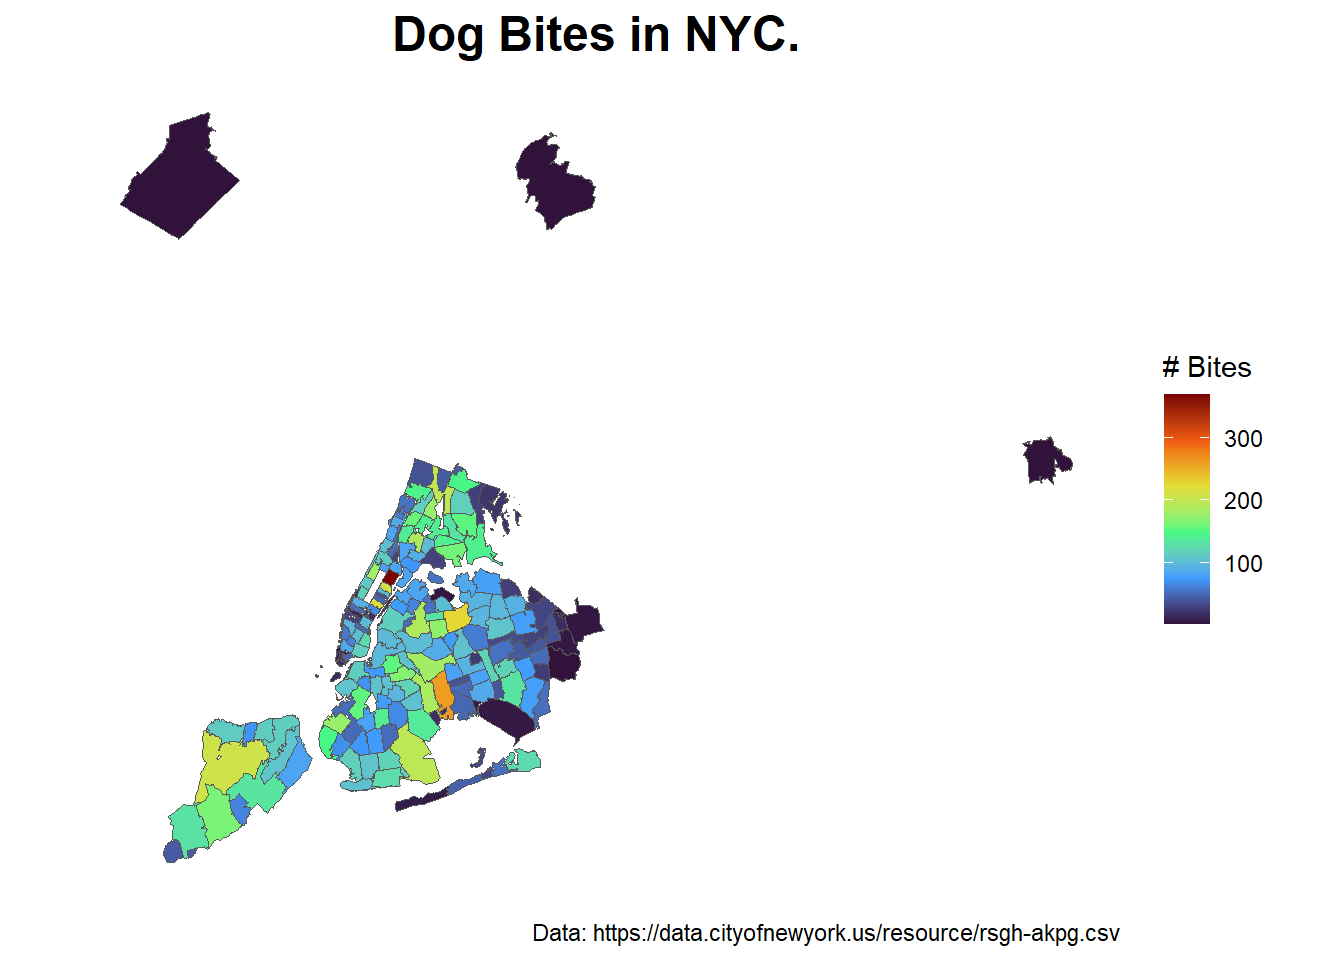
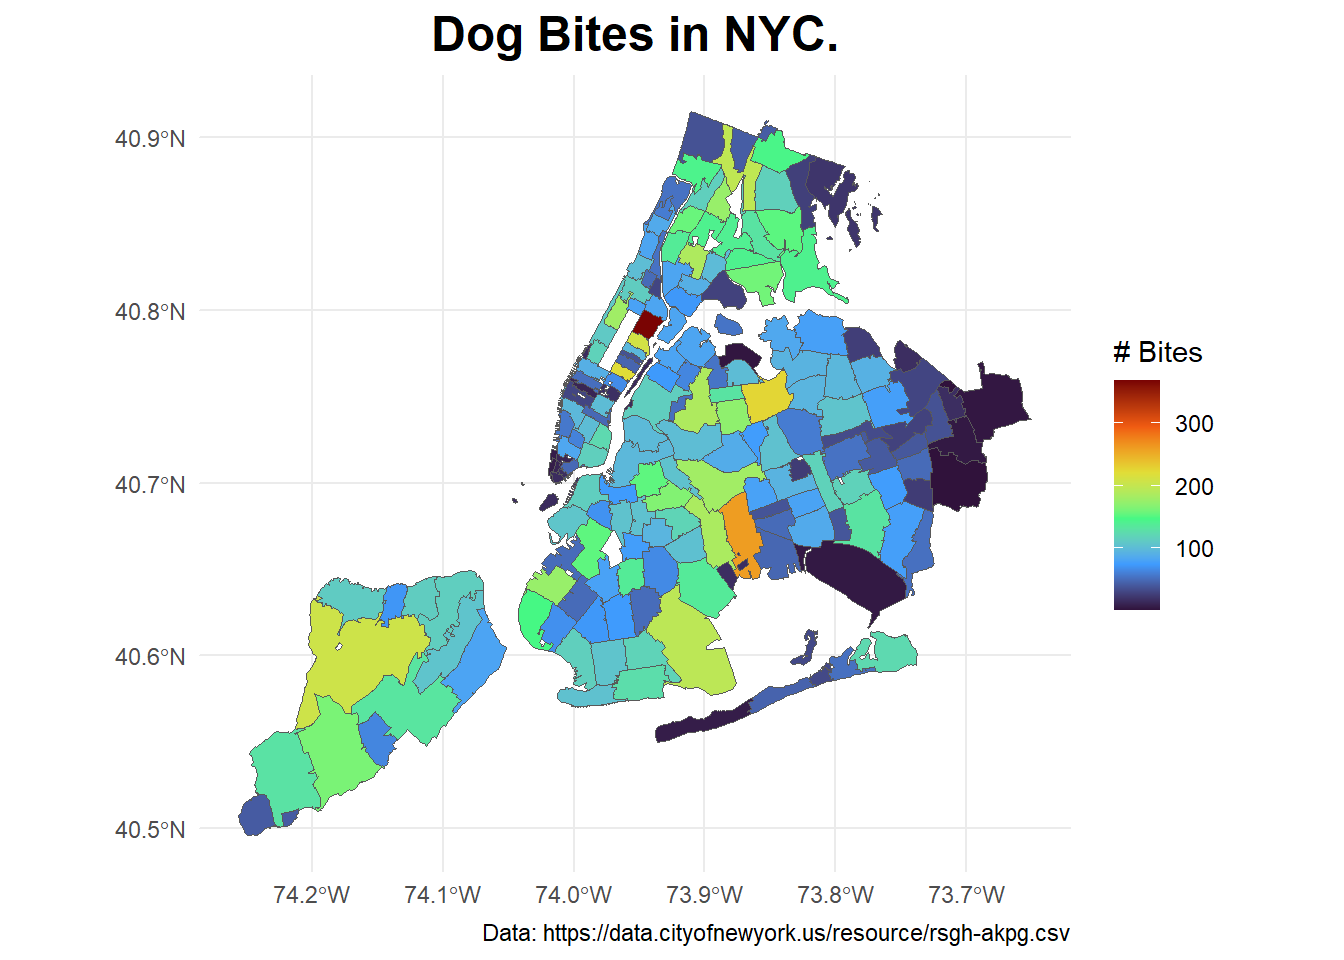
updated

diff --git a/content/posts/2022-01-09-dog-bites-nyc/dog_bite_nyc.html b/content/posts/2022-01-09-dog-bites-nyc/dog_bite_nyc.html
@@ -157,12 +157,12 @@ dog_bite %&gt;% count(age_bin)</code></pre>
   filter(age != &quot;&quot;,
          n &gt; 50) %&gt;%
   gt() </code></pre>
-<div id="sxyuvcnyjf" style="overflow-x:auto;overflow-y:auto;width:auto;height:auto;">
+<div id="zbclmvoiqu" style="overflow-x:auto;overflow-y:auto;width:auto;height:auto;">
 <style>html {
   font-family: -apple-system, BlinkMacSystemFont, 'Segoe UI', Roboto, Oxygen, Ubuntu, Cantarell, 'Helvetica Neue', 'Fira Sans', 'Droid Sans', Arial, sans-serif;
 }
 
-#sxyuvcnyjf .gt_table {
+#zbclmvoiqu .gt_table {
   display: table;
   border-collapse: collapse;
   margin-left: auto;
@@ -187,7 +187,7 @@ dog_bite %&gt;% count(age_bin)</code></pre>
   border-left-color: #D3D3D3;
 }
 
-#sxyuvcnyjf .gt_heading {
+#zbclmvoiqu .gt_heading {
   background-color: #FFFFFF;
   text-align: center;
   border-bottom-color: #FFFFFF;
@@ -199,7 +199,7 @@ dog_bite %&gt;% count(age_bin)</code></pre>
   border-right-color: #D3D3D3;
 }
 
-#sxyuvcnyjf .gt_title {
+#zbclmvoiqu .gt_title {
   color: #333333;
   font-size: 125%;
   font-weight: initial;
@@ -209,7 +209,7 @@ dog_bite %&gt;% count(age_bin)</code></pre>
   border-bottom-width: 0;
 }
 
-#sxyuvcnyjf .gt_subtitle {
+#zbclmvoiqu .gt_subtitle {
   color: #333333;
   font-size: 85%;
   font-weight: initial;
@@ -219,13 +219,13 @@ dog_bite %&gt;% count(age_bin)</code></pre>
   border-top-width: 0;
 }
 
-#sxyuvcnyjf .gt_bottom_border {
+#zbclmvoiqu .gt_bottom_border {
   border-bottom-style: solid;
   border-bottom-width: 2px;
   border-bottom-color: #D3D3D3;
 }
 
-#sxyuvcnyjf .gt_col_headings {
+#zbclmvoiqu .gt_col_headings {
   border-top-style: solid;
   border-top-width: 2px;
   border-top-color: #D3D3D3;
@@ -240,7 +240,7 @@ dog_bite %&gt;% count(age_bin)</code></pre>
   border-right-color: #D3D3D3;
 }
 
-#sxyuvcnyjf .gt_col_heading {
+#zbclmvoiqu .gt_col_heading {
   color: #333333;
   background-color: #FFFFFF;
   font-size: 100%;
@@ -260,7 +260,7 @@ dog_bite %&gt;% count(age_bin)</code></pre>
   overflow-x: hidden;
 }
 
-#sxyuvcnyjf .gt_column_spanner_outer {
+#zbclmvoiqu .gt_column_spanner_outer {
   color: #333333;
   background-color: #FFFFFF;
   font-size: 100%;
@@ -272,15 +272,15 @@ dog_bite %&gt;% count(age_bin)</code></pre>
   padding-right: 4px;
 }
 
-#sxyuvcnyjf .gt_column_spanner_outer:first-child {
+#zbclmvoiqu .gt_column_spanner_outer:first-child {
   padding-left: 0;
 }
 
-#sxyuvcnyjf .gt_column_spanner_outer:last-child {
+#zbclmvoiqu .gt_column_spanner_outer:last-child {
   padding-right: 0;
 }
 
-#sxyuvcnyjf .gt_column_spanner {
+#zbclmvoiqu .gt_column_spanner {
   border-bottom-style: solid;
   border-bottom-width: 2px;
   border-bottom-color: #D3D3D3;
@@ -292,7 +292,7 @@ dog_bite %&gt;% count(age_bin)</code></pre>
   width: 100%;
 }
 
-#sxyuvcnyjf .gt_group_heading {
+#zbclmvoiqu .gt_group_heading {
   padding: 8px;
   color: #333333;
   background-color: #FFFFFF;
@@ -314,7 +314,7 @@ dog_bite %&gt;% count(age_bin)</code></pre>
   vertical-align: middle;
 }
 
-#sxyuvcnyjf .gt_empty_group_heading {
+#zbclmvoiqu .gt_empty_group_heading {
   padding: 0.5px;
   color: #333333;
   background-color: #FFFFFF;
@@ -329,15 +329,15 @@ dog_bite %&gt;% count(age_bin)</code></pre>
   vertical-align: middle;
 }
 
-#sxyuvcnyjf .gt_from_md > :first-child {
+#zbclmvoiqu .gt_from_md > :first-child {
   margin-top: 0;
 }
 
-#sxyuvcnyjf .gt_from_md > :last-child {
+#zbclmvoiqu .gt_from_md > :last-child {
   margin-bottom: 0;
 }
 
-#sxyuvcnyjf .gt_row {
+#zbclmvoiqu .gt_row {
   padding-top: 8px;
   padding-bottom: 8px;
   padding-left: 5px;
@@ -356,7 +356,7 @@ dog_bite %&gt;% count(age_bin)</code></pre>
   overflow-x: hidden;
 }
 
-#sxyuvcnyjf .gt_stub {
+#zbclmvoiqu .gt_stub {
   color: #333333;
   background-color: #FFFFFF;
   font-size: 100%;
@@ -368,7 +368,7 @@ dog_bite %&gt;% count(age_bin)</code></pre>
   padding-left: 12px;
 }
 
-#sxyuvcnyjf .gt_summary_row {
+#zbclmvoiqu .gt_summary_row {
   color: #333333;
   background-color: #FFFFFF;
   text-transform: inherit;
@@ -378,7 +378,7 @@ dog_bite %&gt;% count(age_bin)</code></pre>
   padding-right: 5px;
 }
 
-#sxyuvcnyjf .gt_first_summary_row {
+#zbclmvoiqu .gt_first_summary_row {
   padding-top: 8px;
   padding-bottom: 8px;
   padding-left: 5px;
@@ -388,7 +388,7 @@ dog_bite %&gt;% count(age_bin)</code></pre>
   border-top-color: #D3D3D3;
 }
 
-#sxyuvcnyjf .gt_grand_summary_row {
+#zbclmvoiqu .gt_grand_summary_row {
   color: #333333;
   background-color: #FFFFFF;
   text-transform: inherit;
@@ -398,7 +398,7 @@ dog_bite %&gt;% count(age_bin)</code></pre>
   padding-right: 5px;
 }
 
-#sxyuvcnyjf .gt_first_grand_summary_row {
+#zbclmvoiqu .gt_first_grand_summary_row {
   padding-top: 8px;
   padding-bottom: 8px;
   padding-left: 5px;
@@ -408,11 +408,11 @@ dog_bite %&gt;% count(age_bin)</code></pre>
   border-top-color: #D3D3D3;
 }
 
-#sxyuvcnyjf .gt_striped {
+#zbclmvoiqu .gt_striped {
   background-color: rgba(128, 128, 128, 0.05);
 }
 
-#sxyuvcnyjf .gt_table_body {
+#zbclmvoiqu .gt_table_body {
   border-top-style: solid;
   border-top-width: 2px;
   border-top-color: #D3D3D3;
@@ -421,7 +421,7 @@ dog_bite %&gt;% count(age_bin)</code></pre>
   border-bottom-color: #D3D3D3;
 }
 
-#sxyuvcnyjf .gt_footnotes {
+#zbclmvoiqu .gt_footnotes {
   color: #333333;
   background-color: #FFFFFF;
   border-bottom-style: none;
@@ -435,13 +435,13 @@ dog_bite %&gt;% count(age_bin)</code></pre>
   border-right-color: #D3D3D3;
 }
 
-#sxyuvcnyjf .gt_footnote {
+#zbclmvoiqu .gt_footnote {
   margin: 0px;
   font-size: 90%;
   padding: 4px;
 }
 
-#sxyuvcnyjf .gt_sourcenotes {
+#zbclmvoiqu .gt_sourcenotes {
   color: #333333;
   background-color: #FFFFFF;
   border-bottom-style: none;
@@ -455,41 +455,41 @@ dog_bite %&gt;% count(age_bin)</code></pre>
   border-right-color: #D3D3D3;
 }
 
-#sxyuvcnyjf .gt_sourcenote {
+#zbclmvoiqu .gt_sourcenote {
   font-size: 90%;
   padding: 4px;
 }
 
-#sxyuvcnyjf .gt_left {
+#zbclmvoiqu .gt_left {
   text-align: left;
 }
 
-#sxyuvcnyjf .gt_center {
+#zbclmvoiqu .gt_center {
   text-align: center;
 }
 
-#sxyuvcnyjf .gt_right {
+#zbclmvoiqu .gt_right {
   text-align: right;
   font-variant-numeric: tabular-nums;
 }
 
-#sxyuvcnyjf .gt_font_normal {
+#zbclmvoiqu .gt_font_normal {
   font-weight: normal;
 }
 
-#sxyuvcnyjf .gt_font_bold {
+#zbclmvoiqu .gt_font_bold {
   font-weight: bold;
 }
 
-#sxyuvcnyjf .gt_font_italic {
+#zbclmvoiqu .gt_font_italic {
   font-style: italic;
 }
 
-#sxyuvcnyjf .gt_super {
+#zbclmvoiqu .gt_super {
   font-size: 65%;
 }
 
-#sxyuvcnyjf .gt_footnote_marks {
+#zbclmvoiqu .gt_footnote_marks {
   font-style: italic;
   font-weight: normal;
   font-size: 65%;
@@ -690,8 +690,6 @@ ny &lt;- tigris::zctas(year = 2010, state = &quot;NY&quot;)</code></pre>
   |                                                                            
   |=========================                                             |  36%
   |                                                                            
-  |==========================                                            |  36%
-  |                                                                            
   |==========================                                            |  37%
   |                                                                            
   |==========================                                            |  38%
@@ -723,8 +721,6 @@ ny &lt;- tigris::zctas(year = 2010, state = &quot;NY&quot;)</code></pre>
   |================================                                      |  45%
   |                                                                            
   |================================                                      |  46%
-  |                                                                            
-  |=================================                                     |  46%
   |                                                                            
   |=================================                                     |  47%
   |                                                                            
@@ -758,6 +754,8 @@ ny &lt;- tigris::zctas(year = 2010, state = &quot;NY&quot;)</code></pre>
   |                                                                            
   |=======================================                               |  56%
   |                                                                            
+  |========================================                              |  56%
+  |                                                                            
   |========================================                              |  57%
   |                                                                            
   |========================================                              |  58%
@@ -789,6 +787,8 @@ ny &lt;- tigris::zctas(year = 2010, state = &quot;NY&quot;)</code></pre>
   |==============================================                        |  65%
   |                                                                            
   |==============================================                        |  66%
+  |                                                                            
+  |===============================================                       |  66%
   |                                                                            
   |===============================================                       |  67%
   |                                                                            
@@ -852,6 +852,8 @@ ny &lt;- tigris::zctas(year = 2010, state = &quot;NY&quot;)</code></pre>
   |                                                                            
   |============================================================          |  86%
   |                                                                            
+  |=============================================================         |  86%
+  |                                                                            
   |=============================================================         |  87%
   |                                                                            
   |=============================================================         |  88%
@@ -873,8 +875,6 @@ ny &lt;- tigris::zctas(year = 2010, state = &quot;NY&quot;)</code></pre>
   |=================================================================     |  92%
   |                                                                            
   |=================================================================     |  93%
-  |                                                                            
-  |=================================================================     |  94%
   |                                                                            
   |==================================================================    |  94%
   |                                                                            
@@ -961,6 +961,7 @@ dog_full &lt;- nyc %&gt;%
 <div id="create-maps" class="section level2">
 <h2>Create Maps</h2>
 <pre class="r"><code>dog_full %&gt;%
+  st_crop(c(xmin = -74.31436, ymin = 40.49593, xmax = -73.6, ymax = 41.0)) %&gt;%
   ggplot(aes(fill = bites)) +
   geom_sf(lwd = 0.3) +
   scale_fill_viridis_c(option = &quot;H&quot;) +
@@ -968,22 +969,33 @@ dog_full &lt;- nyc %&gt;%
        caption = &quot;Data: https://data.cityofnewyork.us/resource/rsgh-akpg.csv&quot;,
        fill = &quot;# Bites&quot;) +
   theme_minimal() +
-  theme(panel.grid = element_blank(),
-        axis.text.x = element_blank(),
-        axis.text.y = element_blank(),
+  theme(#panel.grid = element_blank(),
+        #axis.text.x = element_blank(),
+        #axis.text.y = element_blank(),
         plot.title = element_text(hjust = 0.5, size = 18, face = &quot;bold&quot;))</code></pre>
 <p><img src="/posts/2022-01-09-dog-bites-nyc/dog_bite_nyc_files/figure-html/unnamed-chunk-5-1.png" width="672" /></p>
 <pre class="r"><code># similar version map with tmap
-tm_shape(dog_full) +
+dog_full %&gt;%
+  st_crop(c(
+    xmin = -74.31436,
+    ymin = 40.49593,
+    xmax = -73.6,
+    ymax = 41.0
+  )) %&gt;%
+  tm_shape() +
   tm_fill(&quot;bites&quot;,
           style = &quot;quantile&quot;,
           n = 5,
           title = &quot;Dog bites&quot;) +
   tm_borders(col = &quot;black&quot;,
              lwd = 0.3) +
-  tm_layout(title = &quot;Dog Bites in NYC.&quot;,
-            legend.outside = TRUE,
-            legend.outside.position = &quot;left&quot;,
-            title.fontface = &quot;bold&quot;)</code></pre>
+  tm_layout(
+    title = &quot;Dog Bites in NYC.&quot;,
+    legend.outside = TRUE,
+    legend.outside.position = &quot;left&quot;,
+    title.fontface = &quot;bold&quot;
+  )</code></pre>
+<pre><code>## Warning: attribute variables are assumed to be spatially constant throughout all
+## geometries</code></pre>
 <p><img src="/posts/2022-01-09-dog-bites-nyc/dog_bite_nyc_files/figure-html/unnamed-chunk-6-1.png" width="672" /></p>
 </div>
